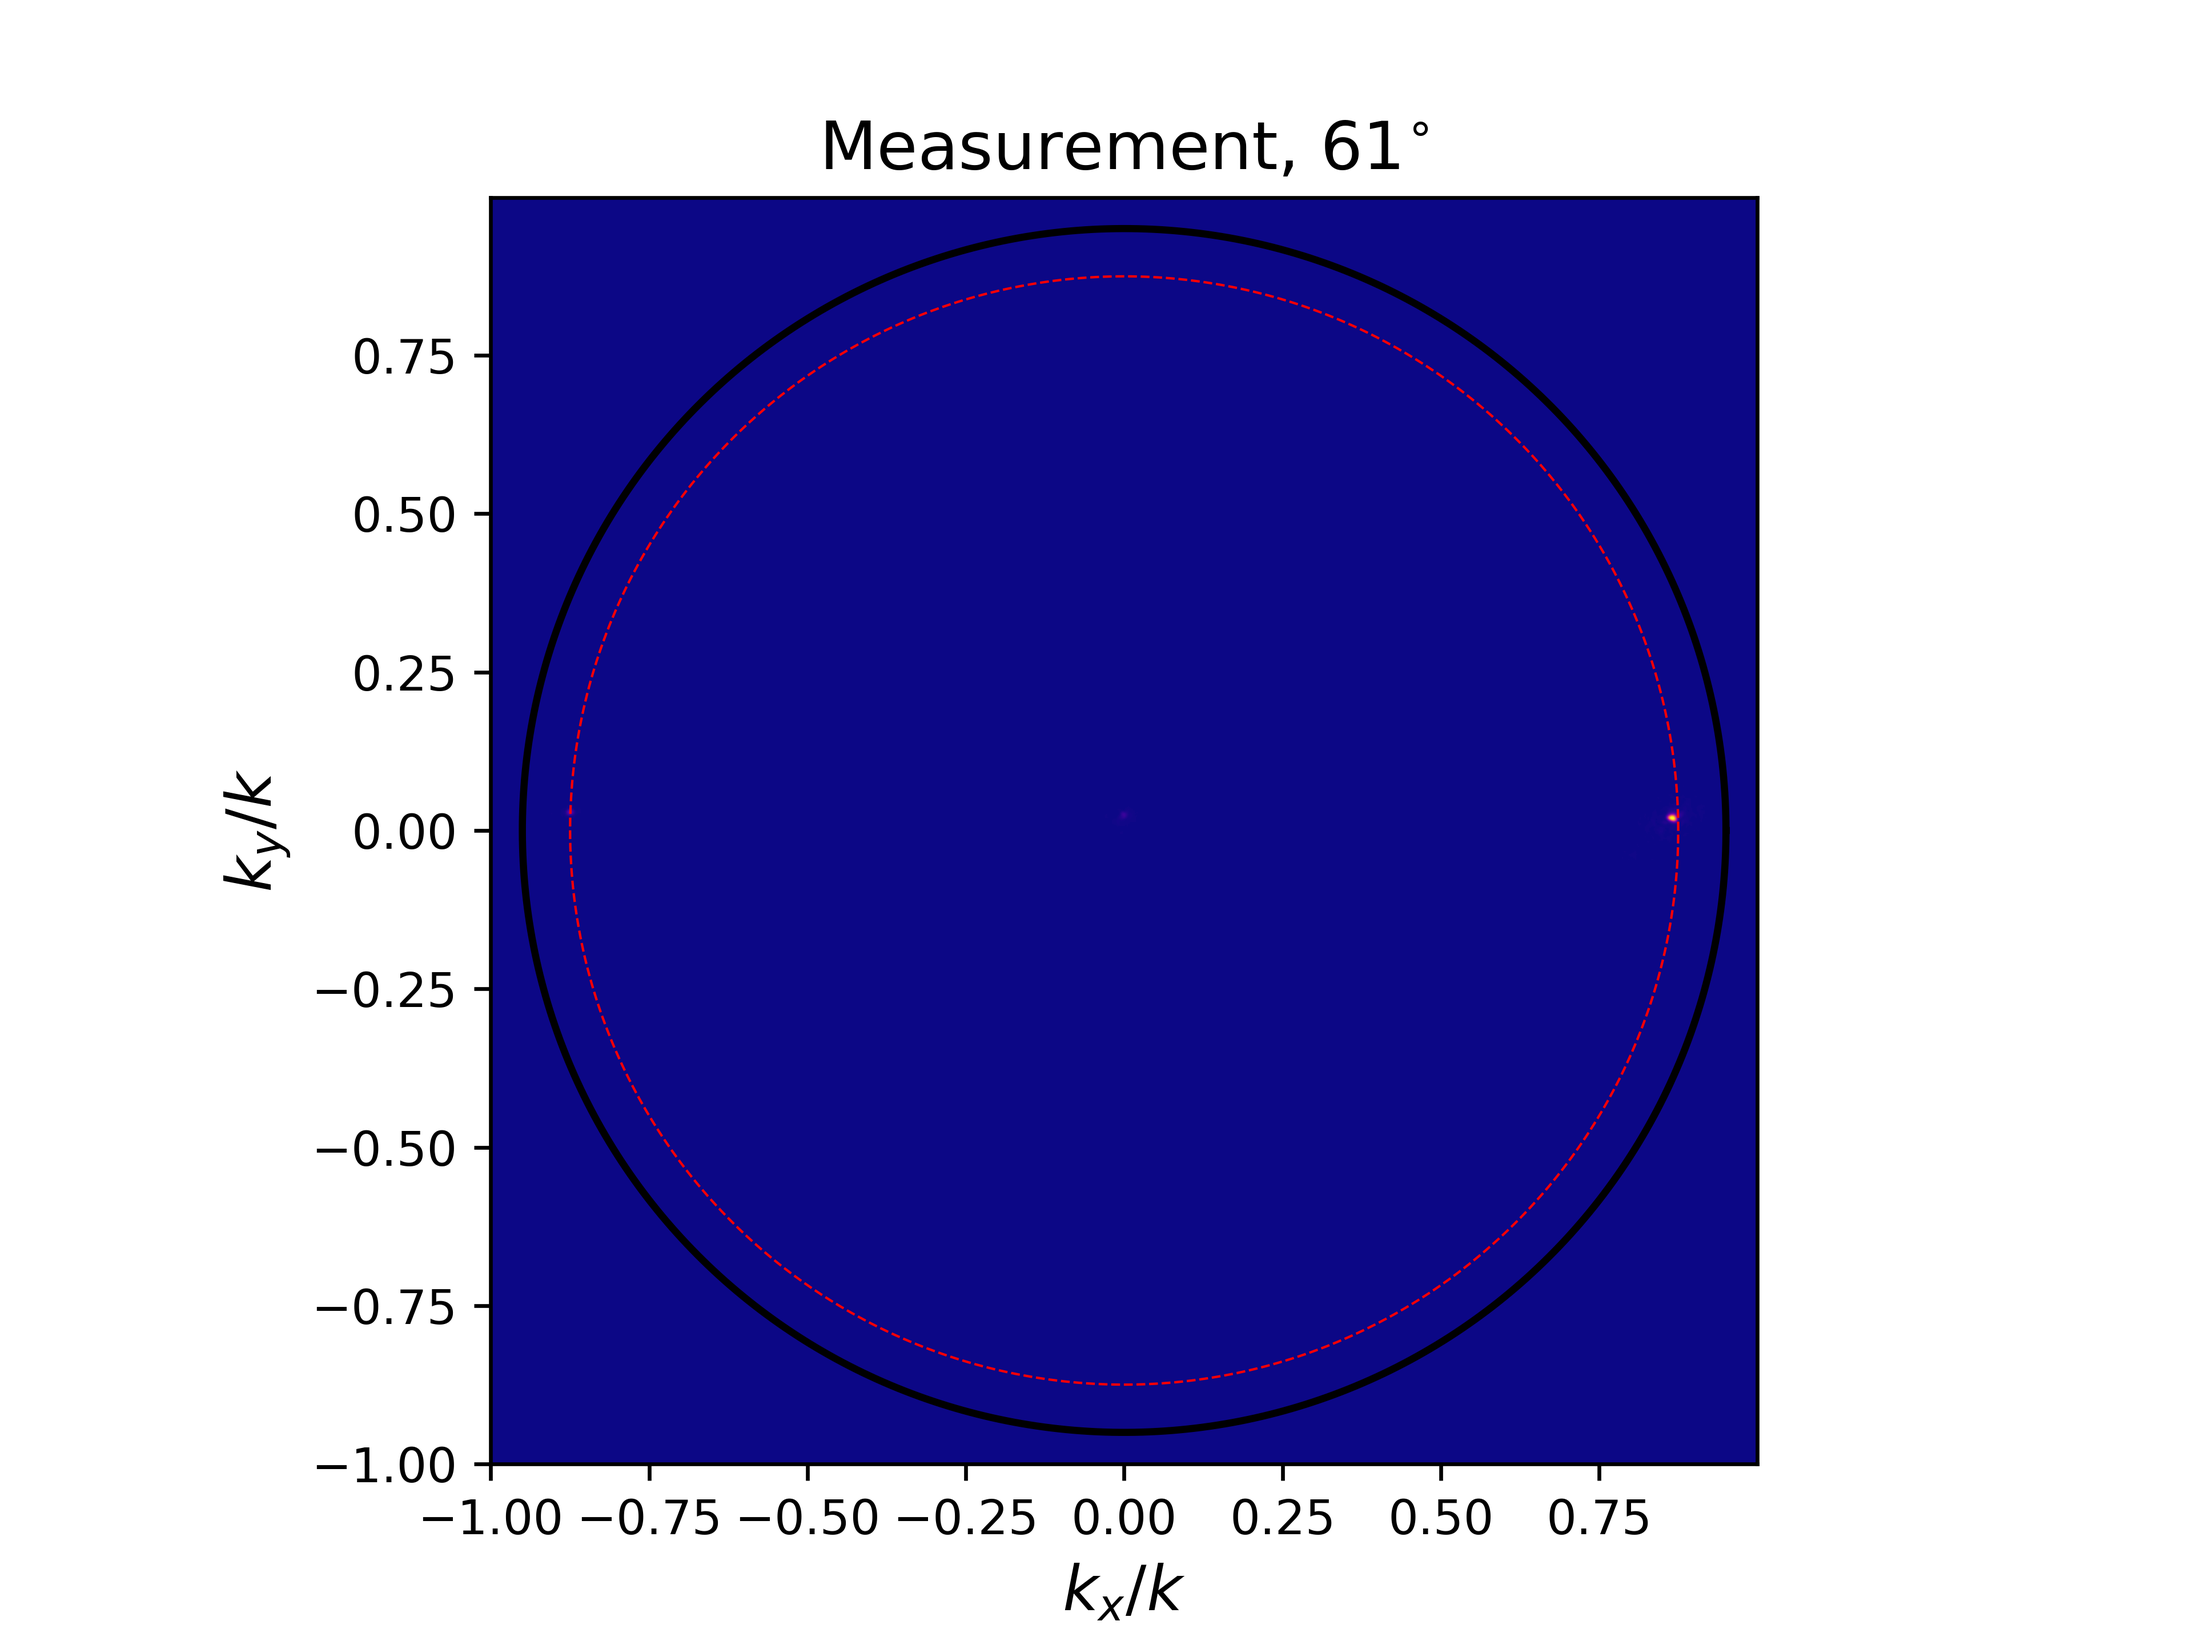
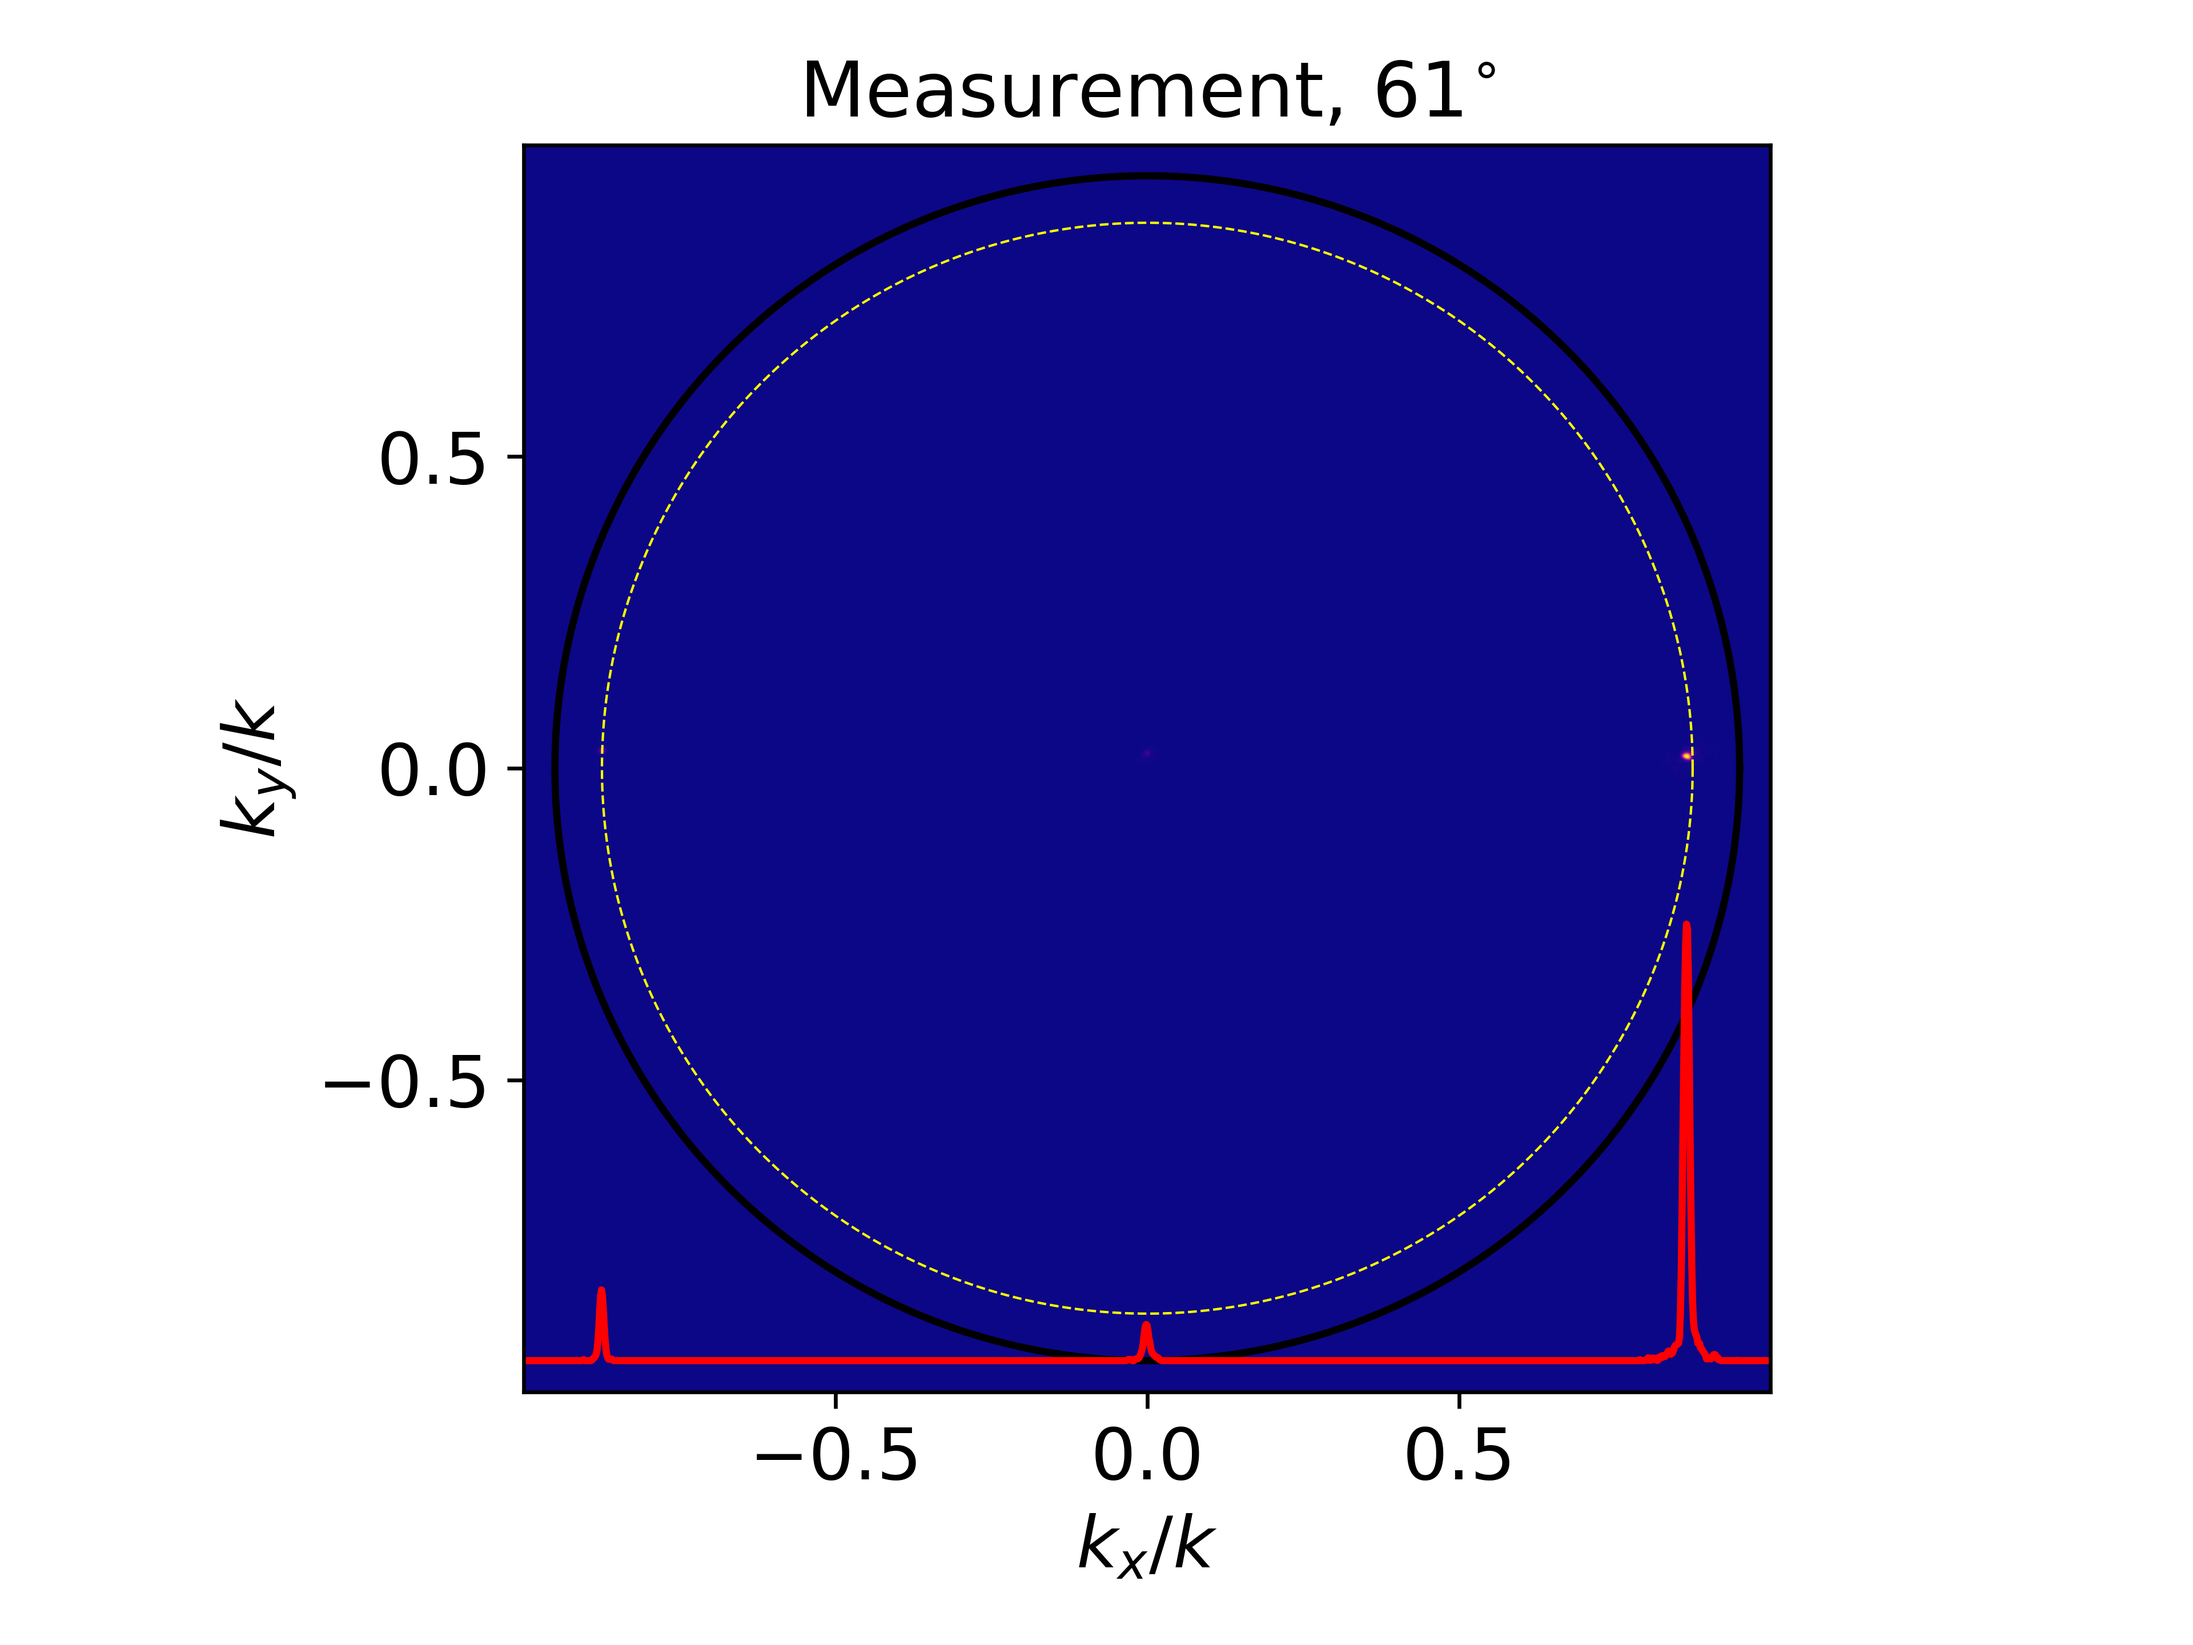
PAS cyl sph

Changed region(s): [[0.1562, 0.0312, 0.8125, 1.0], [0.0938, 0.4375, 0.125, 0.5625], [0.2812, 0.25, 0.3125, 0.3125]]

diff --git a/deflecting_lens_spherical.py b/deflecting_lens_spherical.py
@@ -105,27 +105,31 @@ def plot_focused_beam(E_incident, n, NA_objective, ax, ay, Nx, Ny, X, Y, anglex,
     
     fontsize_title  = 16
     fontsize_axis   = 15
+    y_cs_integrated = np.sum(I_k, axis=0)[:-1]
     
     plt.figure(2)
     plt.imshow(I_k, extent=extent_k, cmap='plasma')
     plt.plot(kx_objective, ky_objective, color='black', linewidth=0.8)
     plt.plot(kx_beam, ky_beam, '--', color='yellow', linewidth=0.5)
+    plt.plot(kx[0:-1], 0.7*(y_cs_integrated/max(y_cs_integrated))-0.95, 'red')
     plt.xlabel(r'$k_x/k$', fontsize=fontsize_axis)
     plt.ylabel(r'$k_y/k$', fontsize=fontsize_axis)
     plt.title(r'PAS, spherical lens, 61 $^{\circ}$', fontsize=fontsize_title)
+    plt.yticks([-0.5, 0, 0.5], fontsize = fontsize_axis)
+    plt.xticks([-0.5, 0, 0.5], fontsize = fontsize_axis)
     plt.tight_layout()
-    #plt.savefig(mypath/'PAS_cylindrical_61.png', dpi=600, format='png')
-    
+    plt.savefig(mypath/'PAS_spherical_61.png', dpi=600, format='png')
 
-    
+
+#%%    
     
 # Create beam
 # Setup simulation window
 Lx = 1*MM
 Ly = 1*MM
 
-ax = 420*NM
-ay = 420*NM
+ax = 500*NM
+ay = 500*NM
 
 Nx = int(Lx/ax)
 Ny = int(Ly/ay)
@@ -141,13 +145,13 @@ R    = np.sqrt(X**2 + Y**2)
 # Setup loosly focused beam in measurement
 lam0        = 976*NM
 n_air       = 1
-omega0      = 100*UM
+omega0      = 30*UM
 offset_x    = 0
 offset_y    = 0
 
 NA_objective = 0.95
 
-anglex = 55*RAD
+anglex = 61*RAD
 angley = 0*RAD
 
 f = 800*UM

diff --git a/deflecting_lens_cylindrical.py b/deflecting_lens_cylindrical.py
@@ -102,19 +102,22 @@ def plot_focused_beam(E_incident, n, NA_objective, ax, ay, Nx, Ny, X, Y, anglex,
     
     fontsize_title  = 16
     fontsize_axis   = 15
+    y_cs_integrated = np.sum(I_k, axis=0)[:-1]
     
     plt.figure(2)
     plt.imshow(I_k, extent=extent_k, cmap='plasma')
     plt.plot(kx_objective, ky_objective, color='black', linewidth=0.8)
     plt.plot(kx_beam, ky_beam, '--', color='yellow', linewidth=0.5)
+    plt.plot(kx[0:-1], 0.7*(y_cs_integrated/max(y_cs_integrated))-0.95, 'red')
     plt.xlabel(r'$k_x/k$', fontsize=fontsize_axis)
     plt.ylabel(r'$k_y/k$', fontsize=fontsize_axis)
     plt.title(r'PAS, cylindrical lens, 61 $^{\circ}$', fontsize=fontsize_title)
+    plt.yticks([-0.5, 0, 0.5], fontsize = fontsize_axis)
+    plt.xticks([-0.5, 0, 0.5], fontsize = fontsize_axis)
     plt.tight_layout()
     plt.savefig(mypath/'PAS_cylindrical_61.png', dpi=600, format='png')
     
 
-    
     
 # Create beam
 # Setup simulation window
@@ -138,7 +141,7 @@ R    = np.sqrt(X**2 + Y**2)
 # Setup loosly focused beam in measurement
 lam0        = 976*NM
 n_air       = 1
-omega0      = 100*UM
+omega0      = 30*UM
 offset_x    = 0
 offset_y    = 0
 
@@ -147,7 +150,7 @@ NA_objective = 0.95
 anglex = 65*RAD
 angley = 0*RAD
 
-f = 1000*UM
+f = 600*UM
 
 E_incident = np.exp(-((X - offset_x)**2 + (Y - offset_y)**2)/omega0**2)
 

diff --git a/plot_GaAs3_1.py b/plot_GaAs3_1.py
@@ -166,8 +166,8 @@ class MEL_9000_k_images():
         diffracted_k_x = NA_diffracted*np.cos(theta)
         diffracted_k_y = NA_diffracted*np.sin(theta)
         
-        fontsize_title  = 14
-        fontsize_axis   = 13
+        fontsize_title  = 16
+        fontsize_axis   = 15
         fontsize_legend = 10
         outer_pad       = 3
         width_pad       = 2
@@ -208,10 +208,14 @@ class MEL_9000_k_images():
         plt.figure(2)
         plt.imshow(self.image, extent=extent, origin='lower', cmap='plasma')
         plt.plot(outer_bound_k_x, outer_bound_k_y, 'black')
-        plt.plot(diffracted_k_x, diffracted_k_y, '--', color='red', linewidth=0.5)
+        plt.plot(diffracted_k_x, diffracted_k_y, '--', color='yellow', linewidth=0.5)
+        plt.plot(self.x_axis[0:-1], 0.7*(x_cs_integrated/max(x_cs_integrated))-0.95, 'red')
         plt.xlabel(r'$k_x/k$', fontsize=fontsize_axis)
         plt.ylabel(r'$k_y/k$', fontsize=fontsize_axis)
         plt.title(r'Measurement, 61$^{\circ}$', fontsize=fontsize_title)
+        plt.yticks([-0.5, 0, 0.5], fontsize = fontsize_axis)
+        plt.xticks([-0.5, 0, 0.5], fontsize = fontsize_axis)
+        plt.tight_layout()
         plt.savefig(mypath/'Measurement_61.png', dpi=600, format='png')
         
         

diff --git a/gds/spherical_lens.py b/gds/spherical_lens.py
@@ -81,11 +81,11 @@ comsol_g3    = np.array(comsol_dataframe['g3'])
 comsol_g4    = np.array(comsol_dataframe['g4'])
 
 ### Important parameters
-focal_plane = 600*UM
-anglex      = -60*DEG_TO_RAD
+focal_plane = 1000*UM
+anglex      = -65*DEG_TO_RAD
 
 ### Fab correction
-r_scale_factor = 1
+r_scale_factor = 1.05
 
 ### Parameters for generated lens
 n            = 1
@@ -96,7 +96,7 @@ r_offset     = -f*np.sin(np.abs(anglex))
 
 
 ### Set size of meta surface 
-ms_diameter    = 220*UM
+ms_diameter    = 300*UM
 
 ### This is calculated for you
 ms_radius      = ms_diameter/2
@@ -239,7 +239,7 @@ def create_cut_comp(angle, r, g1, g2, g3, g4, radius, width, pnd, radius_ms, lay
 
 ### ------------------------ Start creating mask ------------------------ ###
 save_folder_path = create_save_folder()
-ms_name = 'spherical_lens_f' + str(round(focal_plane)) + '_d' + str(round(np.abs(anglex)*RAD_TO_DEG))
+ms_name = 'spherical_lens_f' + str(round(focal_plane)) + '_d' + str(round(np.abs(anglex)*RAD_TO_DEG)) + '_r' + str(r_scale_factor)
 
 layer_dict = {'ms'     : {'layer': 1, 'datatype' : 0},
               'labels' : {'layer': 2, 'datatype' : 1}}

diff --git a/gds/cylindrical_lens.py b/gds/cylindrical_lens.py
@@ -81,7 +81,7 @@ comsol_g3    = np.array(comsol_dataframe['g3'])
 comsol_g4    = np.array(comsol_dataframe['g4'])
 
 ### Set size of meta surface 
-ms_diameter = 140*UM
+ms_diameter = 300*UM
 
 ### Pd does not really matter since it will be reshaped!
 Pd  = 50*NM
@@ -102,10 +102,10 @@ R                    = np.sqrt(X**2 + Y**2)
 
 ### Important parameters
 focal_plane = 600*UM
-anglex      = -40*DEG_TO_RAD
+anglex      = -61*DEG_TO_RAD
 
 ### Fab correction
-r_scale_factor = 1
+r_scale_factor = 1.05
 
 ### Parameters for generated lens
 n            = 1
@@ -229,7 +229,7 @@ R_reshaped             = np.sqrt(X_reshaped**2 + Y_reshaped**2)
 ### ------------------------ Start creating mask ------------------------ ###
 save_folder_path = create_save_folder()
 
-ms_name = 'cylindrical_lens_f' + str(round(focal_plane)) + '_d' + str(round(np.abs(anglex)*RAD_TO_DEG))
+ms_name = 'cylindrical_lens_f' + str(round(focal_plane)) + '_d' + str(round(np.abs(anglex)*RAD_TO_DEG)) + '_r' + str(r_scale_factor)
 
 layer_dict = {'ms'     : {'layer': 1, 'datatype' : 0},
               'labels' : {'layer': 2, 'datatype' : 1}}

diff --git a/plot_GaAs3_4_cylinder_lens.py b/plot_GaAs3_4_cylinder_lens.py
@@ -339,7 +339,7 @@ class MEL_9000_k_images():
 
 ## Data path
 measurment_name = 'GaAs3_4'
-what_measurement = 1
+what_measurement = 3
 
 image_path = list_image_path(measurment_name, what_measurement)
 image = MEL_9000_k_images(image_path)
